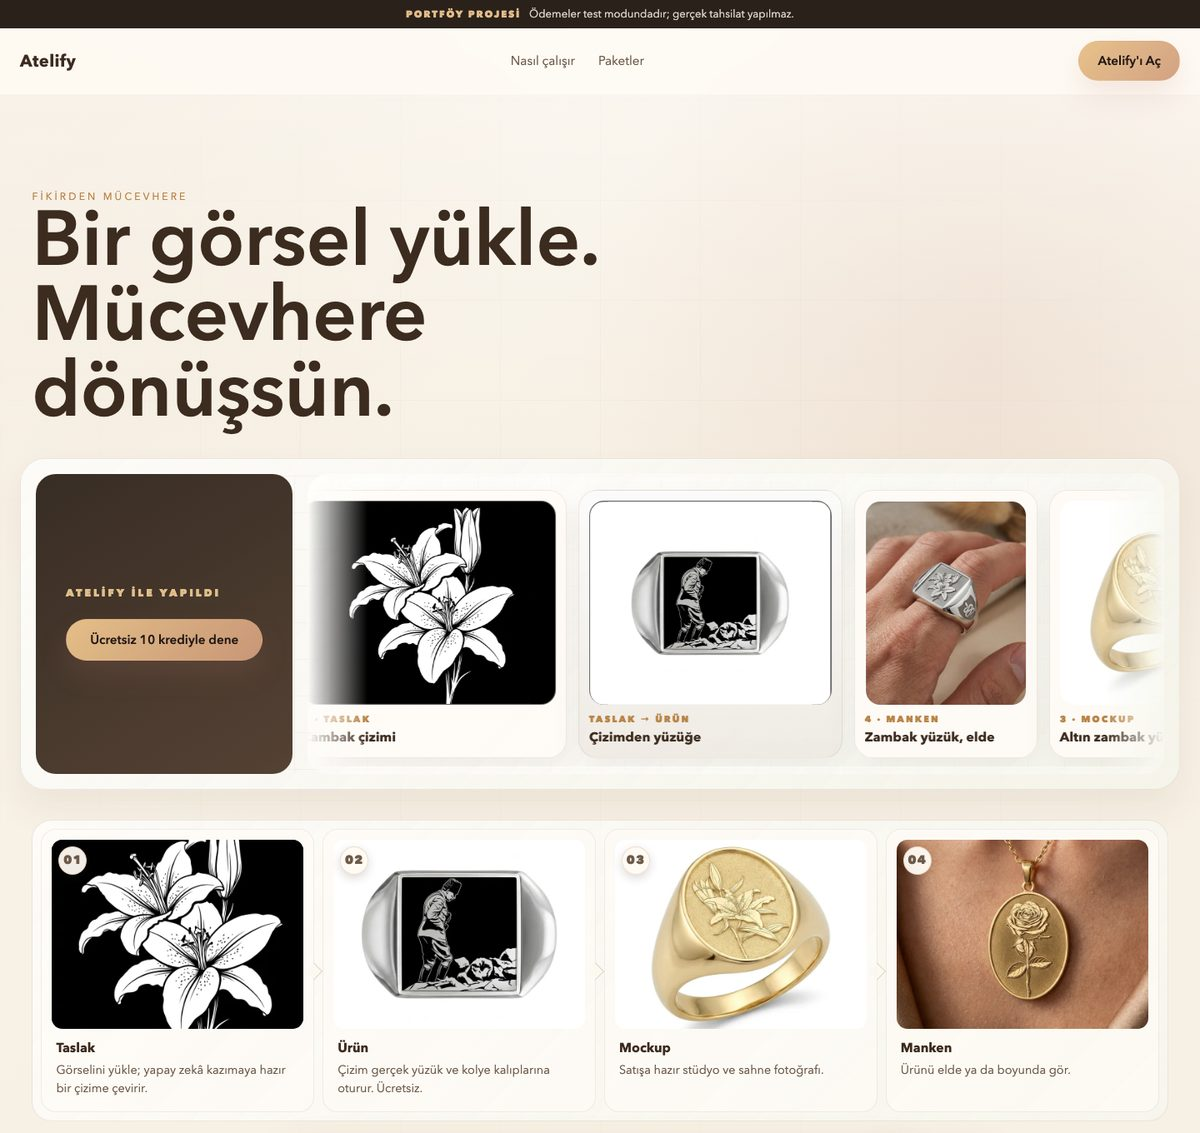
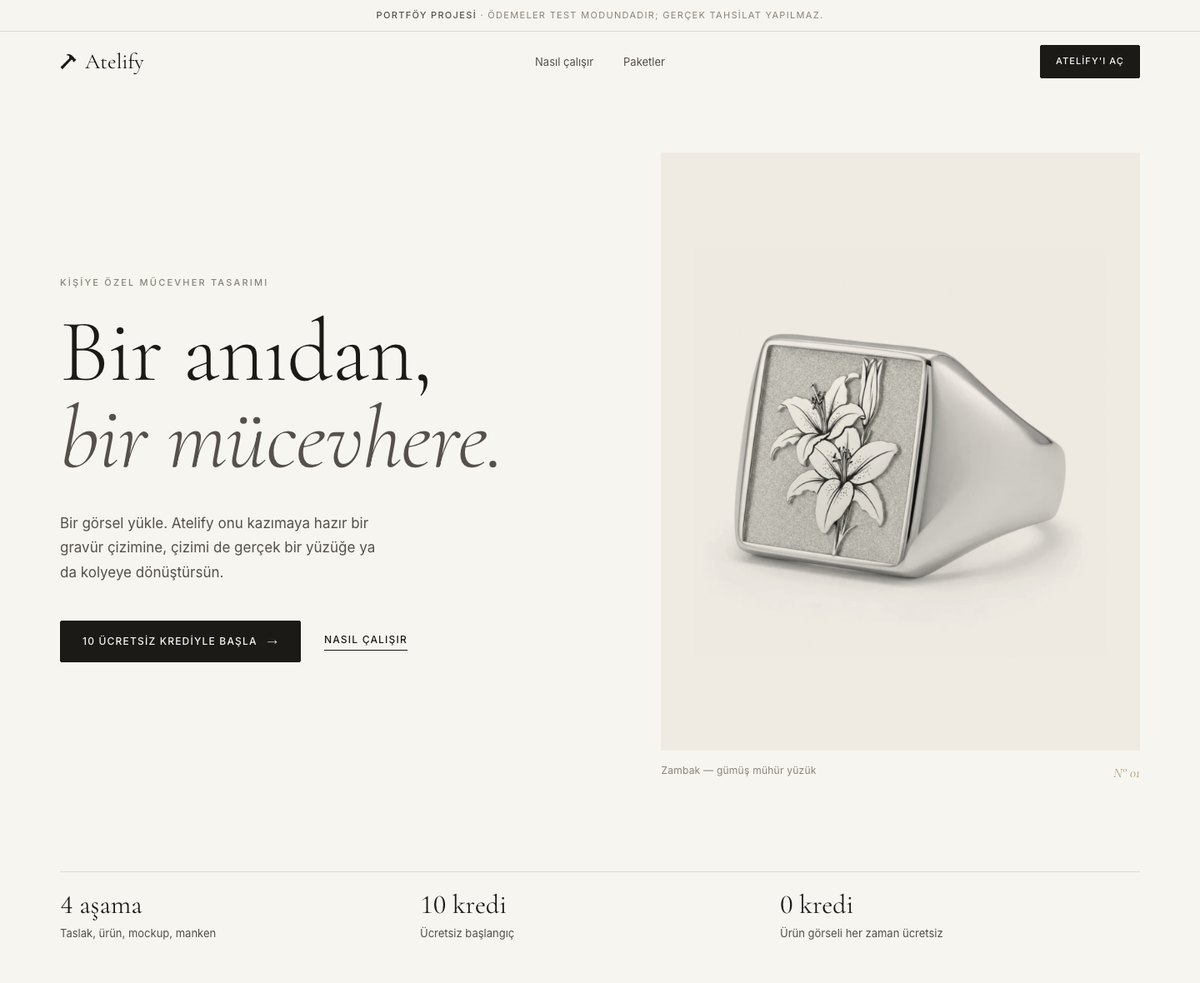
Atelify görseli yeni tasarımla güncellendi
atelify.aruntas.com'un yeni tasarımının ('Bir anıdan, bir mücevhere.',
gümüş zambak yüzük) güncel ekran görüntüsü; önbellek için ?v=2 ve
görsel boyutları eklendi.

diff --git a/public/index.html b/public/index.html
@@ -127,7 +127,7 @@
   .browser { border-radius: 20px; overflow: hidden; border: 1px solid var(--line); background: #1c1c1e; box-shadow: 0 60px 120px -40px rgba(0,0,0,.9); }
   .browser .bar { height: 38px; display: flex; align-items: center; gap: 8px; padding: 0 16px; background: #1c1c1e; border-bottom: 1px solid var(--line); }
   .browser .bar i { width: 11px; height: 11px; border-radius: 50%; background: #3a3a3c; }
-  .browser > img { width: 100%; max-height: 72vh; object-fit: cover; object-position: top; }
+  .browser > img { width: 100%; height: auto; max-height: 72vh; object-fit: cover; object-position: top; }
   .browser .bar span { margin: 0 auto; font-size: 12px; color: var(--muted); background: #2c2c2e; padding: 4px 40px; border-radius: 6px; }
   .tiles { display: grid; grid-template-columns: repeat(3, 1fr); gap: 16px; margin-top: 16px; }
   .tile { background: #111113; border: 1px solid var(--line); border-radius: 24px; padding: 30px; min-height: 220px; display: flex; flex-direction: column; justify-content: space-between; }
@@ -328,7 +328,7 @@
 </section>
 <section style="padding: 10vh 0 6vh" data-rug="madalyon">
   <div class="showcase">
-    <div class="browser reveal"><div class="bar"><i></i><i></i><i></i><span>atelify.aruntas.com</span></div><img src="assets/atelify.jpg" alt="Atelify ana sayfası"></div>
+    <div class="browser reveal"><div class="bar"><i></i><i></i><i></i><span>atelify.aruntas.com</span></div><img src="assets/atelify.jpg?v=2" width="1200" height="983" alt="Atelify ana sayfası"></div>
     <div class="tiles">
       <div class="tile reveal"><b class="grad">0₺</b><p><strong>Sıfır maliyetli adım.</strong> Ürün aşaması görüntü işlemeyle çalışır, yapay zekâya hiç para ödemez.</p></div>
       <div class="tile reveal"><b>1×</b><p><strong>Asla iki kez ücret yok.</strong> Tekrar denenen istekler bir kez sayılır; hata olursa kredi otomatik iade edilir.</p></div>
